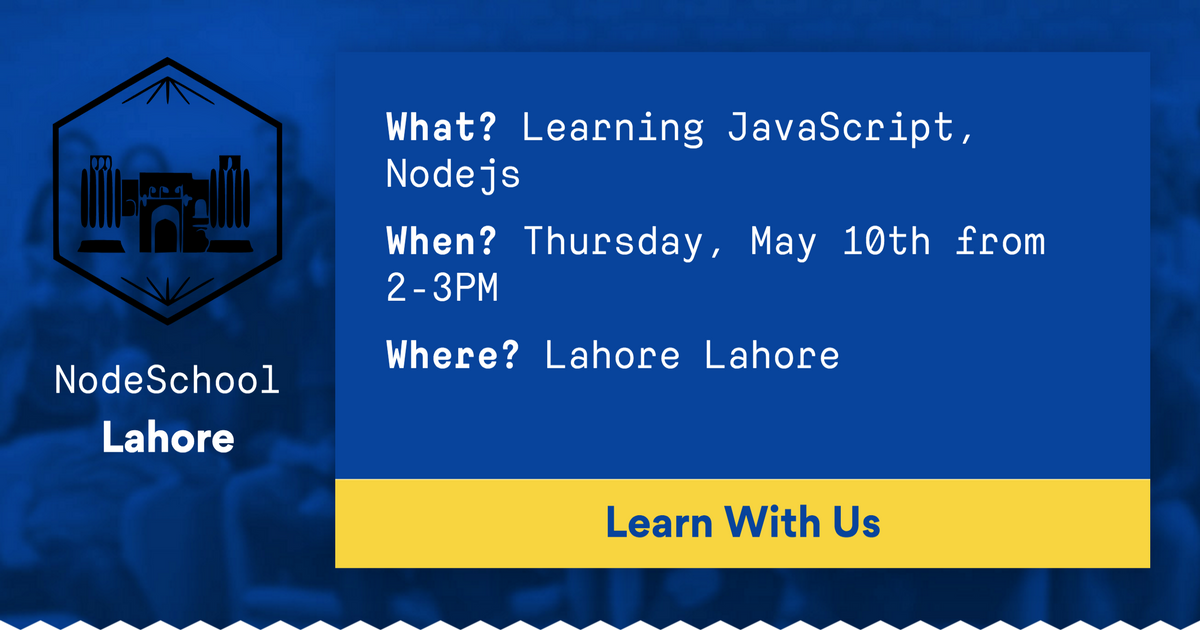
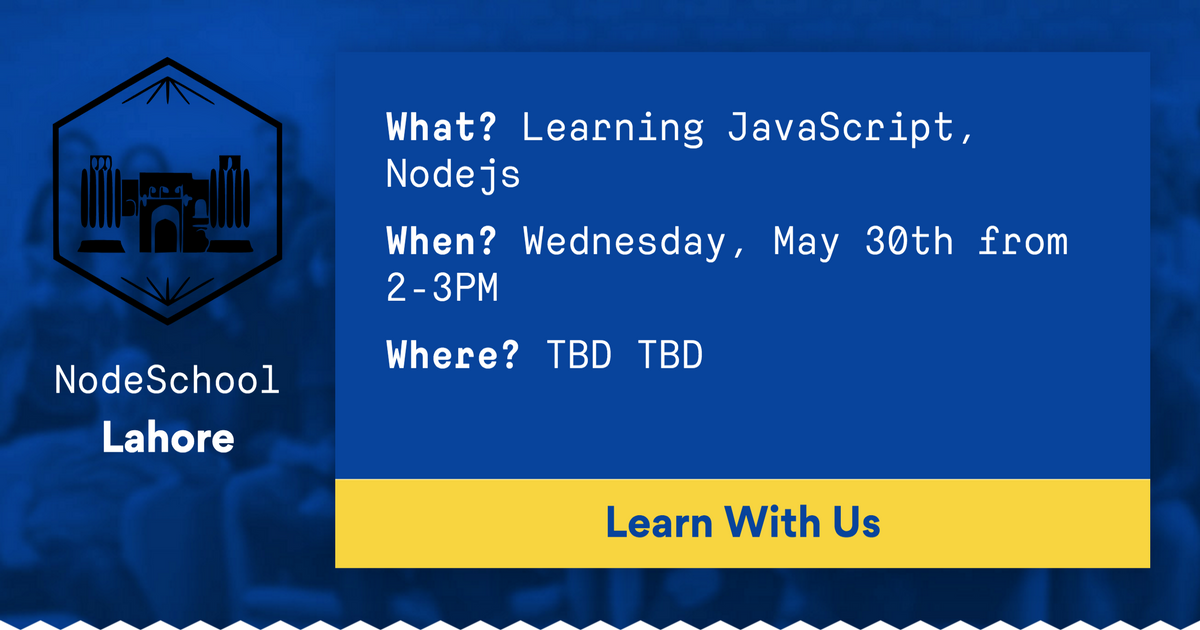
AUTOMATIC site update

Changed region(s): [[0.4317, 0.3619, 0.8942, 0.4222], [0.4317, 0.5429, 0.7092, 0.6032]]

diff --git a/docs/index.html b/docs/index.html
@@ -7,14 +7,14 @@
     <meta property="og:type" content="website" />
     <meta property="og:description" content="NodeSchool Lahore is a monthly meetup dedicated to helping people learn JavaScript." />
     <meta property="og:url" content="https://nodeschool.io/lahore/" />
-    <meta property="og:image" content="https://nodeschool.io/lahore/images/social.png?t=1525534860988" />
+    <meta property="og:image" content="https://nodeschool.io/lahore/images/social.png?t=1525535977030" />
     <!--Twitter-->
     <meta name="twitter:card" content="summary_large_image">
     <meta name="twitter:site" content="@nodeschoollhr">
     <meta name="twitter:creator" content="@nodeschoollhr">
     <meta name="twitter:title" content="NodeSchool Lahore">
     <meta name="twitter:description" content="NodeSchool Lahore is a monthly meetup dedicated to helping people learn JavaScript.">
-    <meta name="twitter:image" content="https://nodeschool.io/lahore/images/social.png?t=1525534860988">
+    <meta name="twitter:image" content="https://nodeschool.io/lahore/images/social.png?t=1525535977030">
 
     <title>NodeSchool Lahore</title>
     <link rel="stylesheet" href="./styles/index.css" />
@@ -63,13 +63,13 @@
 
           <div class="next-event">
             <div class="next-event__description">
-              <h2 class="next-event__heading">Our Next Event is on May 10th</h2>
+              <h2 class="next-event__heading">Our Next Event is on May 30th</h2>
               <ul class="next-event__info">
                 <li class="next-event__info__item">
-                  <strong class="strong--alt">When?</strong> Thursday, May 10th from 2-3PM
+                  <strong class="strong--alt">When?</strong> Wednesday, May 30th from 2-3PM
                 </li>
                 <li class="next-event__info__item">
-                  <strong class="strong--alt">Where?</strong> Lahore Lahore [<a href="http://maps.google.com/?q=Lahore">map</a>]
+                  <strong class="strong--alt">Where?</strong> TBD TBD [<a href="http://maps.google.com/?q=TBD">map</a>]
                 </li>
                 <li class="next-event__info__item">
                   <strong class="strong--alt">What?</strong> Learning, mentoring, javascript bffs, and pizza 🍕

diff --git a/docs/social.html b/docs/social.html
@@ -20,8 +20,8 @@
         <div class="social__message next-event">
           <div class="next-event__description">
             <p><strong>What?</strong> Learning JavaScript, Nodejs</p>
-            <p><strong>When?</strong> Thursday, May 10th from 2-3PM</p>
-            <p><strong>Where?</strong> Lahore Lahore</p>
+            <p><strong>When?</strong> Wednesday, May 30th from 2-3PM</p>
+            <p><strong>Where?</strong> TBD TBD</p>
           </div>
           <div class="next-event__actions">
             <button class="next-event__action__learn next-event__action social__button button">Learn With Us</button>
